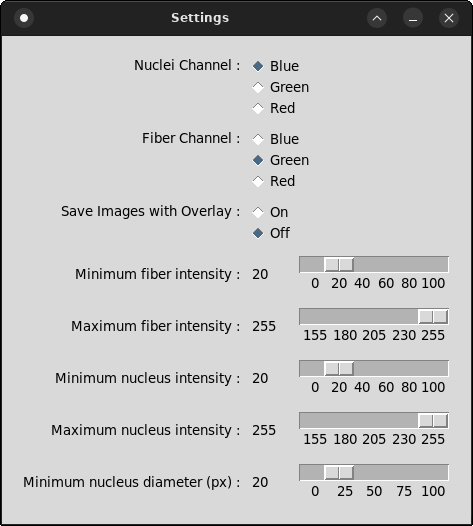
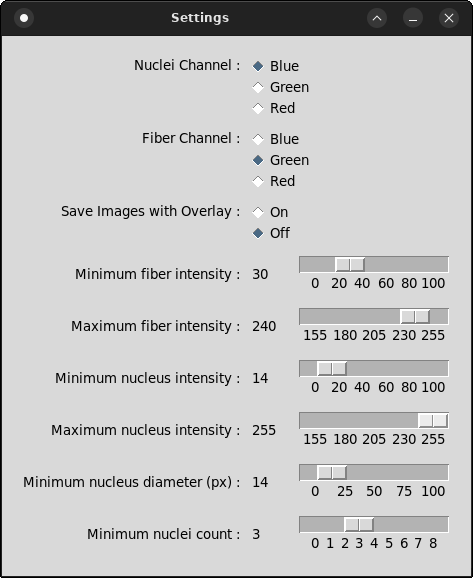
docs: add documentation about the new nuclei count setting

diff --git a/src/myofinder/image_segmentation.py b/src/myofinder/image_segmentation.py
@@ -55,6 +55,9 @@ class ImageSegmentation:
                 greater than this value will be discarded.
             minimum_nucleus_diameter: Objects whose area is lower than this
                 value (in pixels) will not be considered.
+            minimum_nuclei_count: Nuclei located in a fiber containing less
+                than this number of positive nuclei will be counted as
+                negative.
 
         Returns:
             The list of nuclei outside the fibers, the list of nuclei inside
@@ -240,6 +243,9 @@ class ImageSegmentation:
                 lower than this value will be discarded.
             maximum_nucleus_intensity: Any nucleus whose average brightness is
                 greater than this value will be discarded.
+            minimum_nuclei_count: Nuclei located in a fiber containing less
+                than this number of positive nuclei will be counted as
+                negative.
 
         Returns:
             The list of the centers of nuclei outside of fibers, and the list
